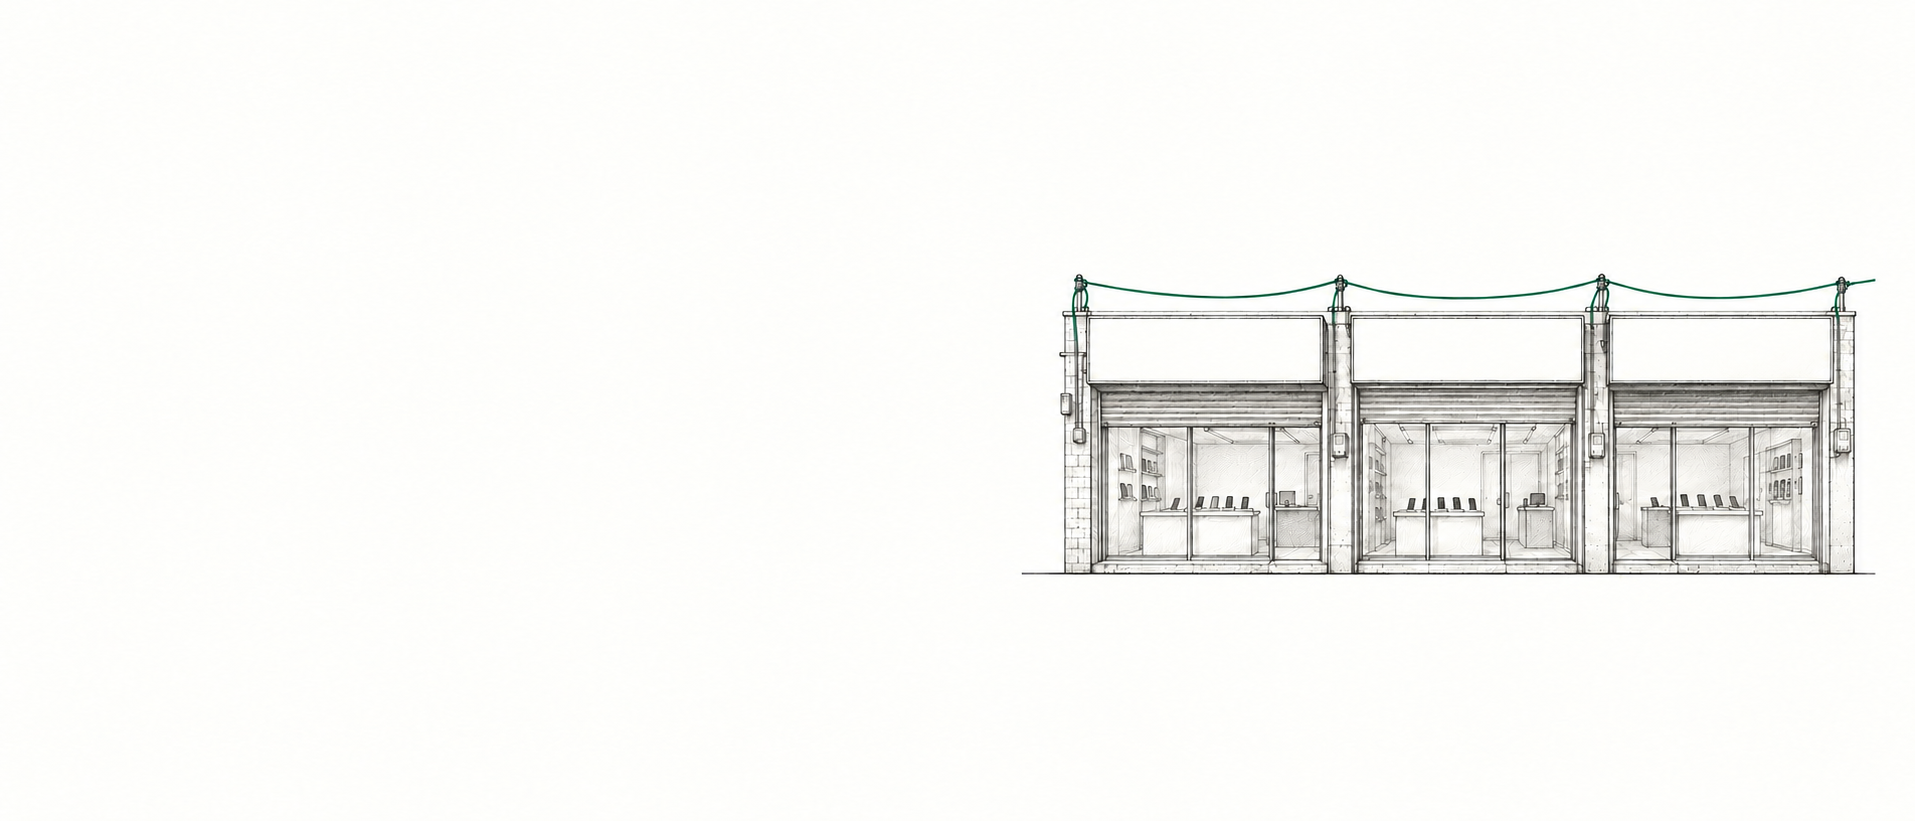
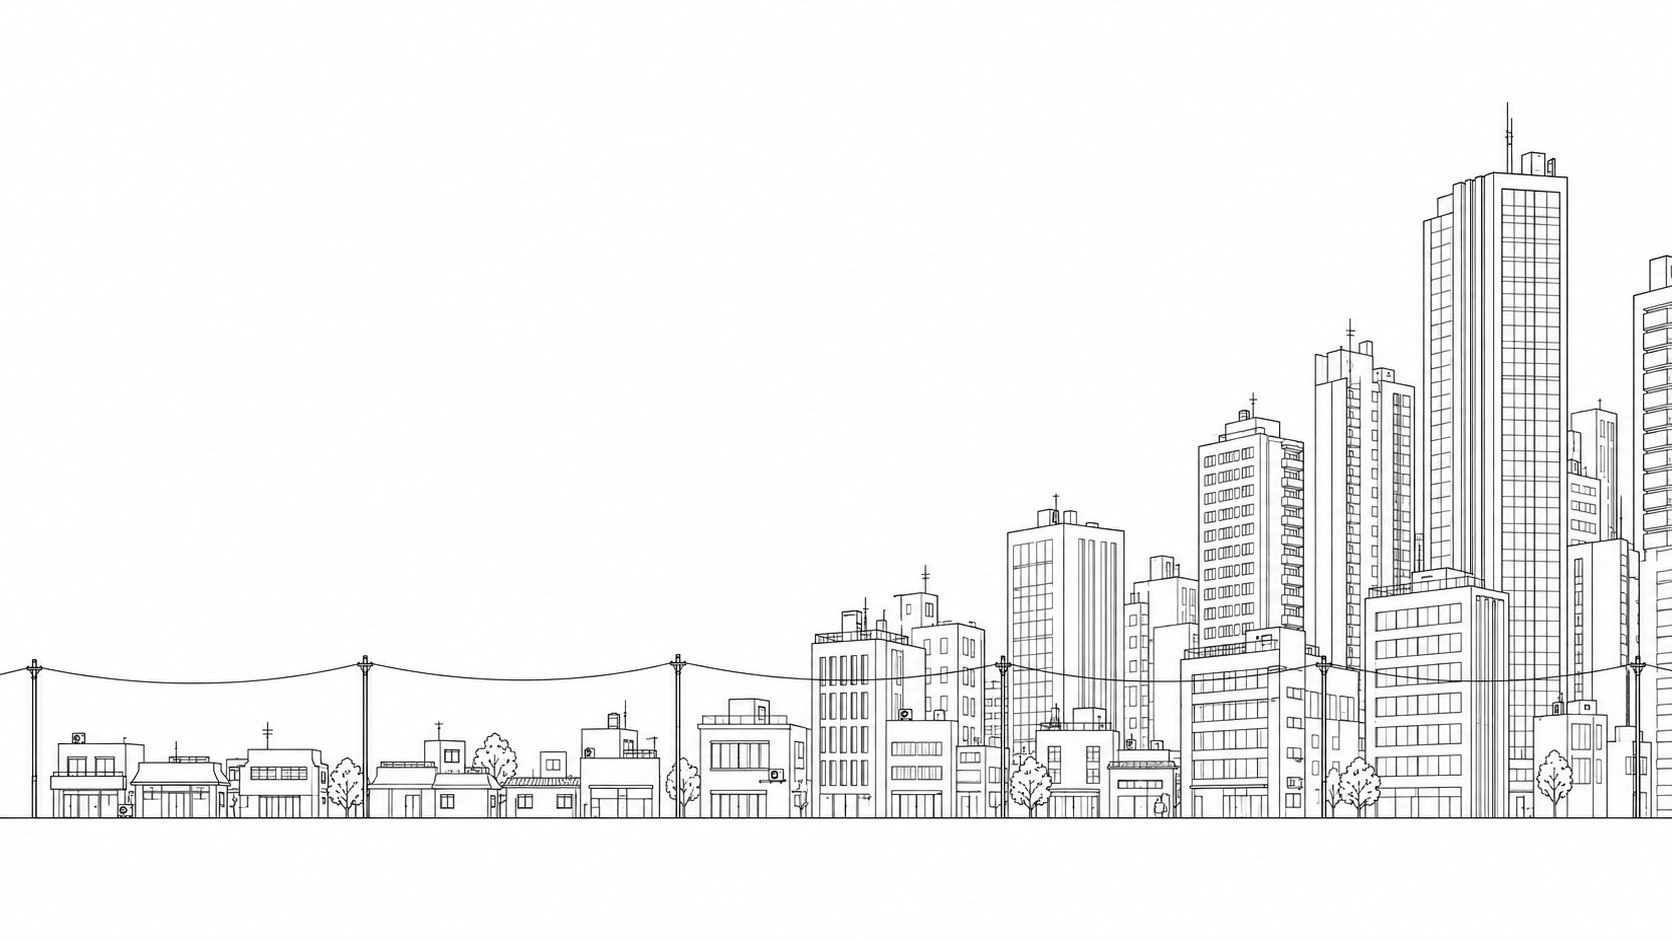
회사소개 히어로: 선 스케치 빌딩숲으로 교체 (투명 webp, 버튼-숫자 사이 선을 땅으로)
Claude-Session: https://claude.ai/code/session_01Jbk5873xntW4wHu3zmSYpM

Changed region(s): [[0.0, 0.1523, 1.0, 0.8831], [0.0, 0.7004, 0.0933, 0.7308]]

diff --git a/dist/static/sub.css b/dist/static/sub.css
@@ -168,30 +168,31 @@
   .sp-card-big{ font-size:60px; }
 }
 
-/* ---------- 분류별 연필 스케치 히어로 (2026-11-02, 회사 분류부터) ----------
-   밝은 종이 배경 + 왼쪽 잉크 글자 + 오른쪽 스케치. 그림의 왼쪽 절반은 빈 종이라 글자 자리다. */
-.sp-hero--sketch .sp-hero-frame{
-  background-color:#FDFDFB; border:1px solid var(--hp-line);
-  background-size:100% auto; background-position:center bottom; background-repeat:no-repeat;
-}
-.sp-hero--sketch.sp-hero--tall .sp-hero-frame{ height:auto; min-height:560px; padding-bottom:40vw; }
-.sp-hero--sketch .sp-hero-body{ color:var(--hp-ink); height:auto; }
+/* ---------- 분류별 선 스케치 히어로 (2026-11-02, 회사 분류부터) ----------
+   카드 틀 없이 페이지 바탕 위에 바로 놓인다. 그림(투명 webp)의 맨 아래 선 = '땅'.
+   땅은 버튼과 숫자 사이에 오고, 숫자(2010·4,000건·310억)는 땅 아래에 놓인다. */
+.sp-hero--sketch .sp-hero-frame{ position:relative; height:auto; min-height:0; padding:0;
+  background:none; border:0; border-radius:0; overflow:visible; }
+.sp-hero-sketch{ position:absolute; right:0; bottom:96px; width:100%; height:auto; z-index:0;
+  pointer-events:none; user-select:none; }
+.sp-hero--sketch .sp-hero-body{ position:relative; z-index:1; height:auto; max-width:none;
+  padding:24px 0 0; display:block; color:var(--hp-ink); }
+.sp-hero--sketch .sp-hero-body > div:first-child{ max-width:600px; padding-bottom:60vw; }
 .sp-hero--sketch .sp-hero-label{ color:var(--hp-green); }
 .sp-hero--sketch .sp-hero-sub{ color:var(--hp-grey); }
-.sp-hero--sketch .sp-hero-fact{ border-left-color:var(--hp-line); }
+.sp-hero--sketch .sp-hero-facts{ margin-top:0; padding-top:20px; height:96px; box-sizing:border-box;
+  max-width:none; grid-auto-columns:max-content; gap:28px; }
+.sp-hero--sketch .sp-hero-fact{ border-left:0; padding-left:0; }
 .sp-hero--sketch .sp-hero-fact-label{ color:var(--hp-grey); }
-.sp-hero--sketch .sp-hero-facts{ margin-top:28px; }
+@media (max-width:1023px){
+  .sp-hero-sketch{ width:180%; max-width:none; }
+}
 @media (min-width:1024px){
-  .sp-hero--sketch.sp-hero--tall .sp-hero-frame{ height:620px; min-height:0; padding-bottom:0;
-    background-size:contain; background-position:right bottom; }
-  .sp-hero--sketch .sp-hero-body{ height:100%; max-width:600px; }
+  .sp-hero--sketch .sp-hero-body{ padding-top:110px; }
+  .sp-hero--sketch .sp-hero-body > div:first-child{ max-width:560px; padding-bottom:64px; }
+  .sp-hero--sketch .sp-hero-facts{ gap:64px; }
   .sp-hero--sketch .sp-hero-headline{ font-size:52px; }
 }
 @media (min-width:1280px){
   .sp-hero--sketch .sp-hero-headline{ font-size:56px; }
-}
-
-/* sketch hero — mobile: crop to the right half (building) */
-@media (max-width:1023px){
-  .sp-hero--sketch.sp-hero--tall .sp-hero-frame{ background-size:200% auto; background-position:right bottom; padding-bottom:52vw; }
 }

diff --git a/static/sub.css b/static/sub.css
@@ -168,30 +168,31 @@
   .sp-card-big{ font-size:60px; }
 }
 
-/* ---------- 분류별 연필 스케치 히어로 (2026-11-02, 회사 분류부터) ----------
-   밝은 종이 배경 + 왼쪽 잉크 글자 + 오른쪽 스케치. 그림의 왼쪽 절반은 빈 종이라 글자 자리다. */
-.sp-hero--sketch .sp-hero-frame{
-  background-color:#FDFDFB; border:1px solid var(--hp-line);
-  background-size:100% auto; background-position:center bottom; background-repeat:no-repeat;
-}
-.sp-hero--sketch.sp-hero--tall .sp-hero-frame{ height:auto; min-height:560px; padding-bottom:40vw; }
-.sp-hero--sketch .sp-hero-body{ color:var(--hp-ink); height:auto; }
+/* ---------- 분류별 선 스케치 히어로 (2026-11-02, 회사 분류부터) ----------
+   카드 틀 없이 페이지 바탕 위에 바로 놓인다. 그림(투명 webp)의 맨 아래 선 = '땅'.
+   땅은 버튼과 숫자 사이에 오고, 숫자(2010·4,000건·310억)는 땅 아래에 놓인다. */
+.sp-hero--sketch .sp-hero-frame{ position:relative; height:auto; min-height:0; padding:0;
+  background:none; border:0; border-radius:0; overflow:visible; }
+.sp-hero-sketch{ position:absolute; right:0; bottom:96px; width:100%; height:auto; z-index:0;
+  pointer-events:none; user-select:none; }
+.sp-hero--sketch .sp-hero-body{ position:relative; z-index:1; height:auto; max-width:none;
+  padding:24px 0 0; display:block; color:var(--hp-ink); }
+.sp-hero--sketch .sp-hero-body > div:first-child{ max-width:600px; padding-bottom:60vw; }
 .sp-hero--sketch .sp-hero-label{ color:var(--hp-green); }
 .sp-hero--sketch .sp-hero-sub{ color:var(--hp-grey); }
-.sp-hero--sketch .sp-hero-fact{ border-left-color:var(--hp-line); }
+.sp-hero--sketch .sp-hero-facts{ margin-top:0; padding-top:20px; height:96px; box-sizing:border-box;
+  max-width:none; grid-auto-columns:max-content; gap:28px; }
+.sp-hero--sketch .sp-hero-fact{ border-left:0; padding-left:0; }
 .sp-hero--sketch .sp-hero-fact-label{ color:var(--hp-grey); }
-.sp-hero--sketch .sp-hero-facts{ margin-top:28px; }
+@media (max-width:1023px){
+  .sp-hero-sketch{ width:180%; max-width:none; }
+}
 @media (min-width:1024px){
-  .sp-hero--sketch.sp-hero--tall .sp-hero-frame{ height:620px; min-height:0; padding-bottom:0;
-    background-size:contain; background-position:right bottom; }
-  .sp-hero--sketch .sp-hero-body{ height:100%; max-width:600px; }
+  .sp-hero--sketch .sp-hero-body{ padding-top:110px; }
+  .sp-hero--sketch .sp-hero-body > div:first-child{ max-width:560px; padding-bottom:64px; }
+  .sp-hero--sketch .sp-hero-facts{ gap:64px; }
   .sp-hero--sketch .sp-hero-headline{ font-size:52px; }
 }
 @media (min-width:1280px){
   .sp-hero--sketch .sp-hero-headline{ font-size:56px; }
-}
-
-/* sketch hero — mobile: crop to the right half (building) */
-@media (max-width:1023px){
-  .sp-hero--sketch.sp-hero--tall .sp-hero-frame{ background-size:200% auto; background-position:right bottom; padding-bottom:52vw; }
 }

diff --git a/templates/partials/hero.html b/templates/partials/hero.html
@@ -6,8 +6,9 @@
 {% set sk = data.sketch %}
 <div class="sp-hero sp-hero--{{ variant }}{% if sk %} sp-hero--sketch{% endif %}">
   {% if sk %}
-  {# 분류별 공통 연필 스케치 히어로(회사/거래/정보) — static/photos/hero/hero-<분류>.webp, 밝은 종이 배경 + 잉크 글자 #}
-  <div class="sp-hero-frame" style="background-image:url('static/photos/hero/hero-{{ sk }}.webp')">
+  {# 분류별 공통 선 스케치 히어로(회사/거래/정보) — static/photos/hero/hero-<분류>.webp (투명 배경, 맨 아래 선이 땅) #}
+  <div class="sp-hero-frame">
+    <img class="sp-hero-sketch" src="static/photos/hero/hero-{{ sk }}.webp" alt="" aria-hidden="true">
   {% else %}
   <div class="sp-hero-frame" style="background-image:url('static/photos/hero-{{ data.photo }}.jpg')">
     {# 사진 분위기(교체용 참고): {{ data.photo_mood }} #}

diff --git a/dist/about.html b/dist/about.html
@@ -126,7 +126,8 @@ FINISH: unreviewed and undocumented is unfinished; this build ends with the fini
 <div class="sp-hero sp-hero--tall sp-hero--sketch">
   
   
-  <div class="sp-hero-frame" style="background-image:url('static/photos/hero/hero-company.webp')">
+  <div class="sp-hero-frame">
+    <img class="sp-hero-sketch" src="static/photos/hero/hero-company.webp" alt="" aria-hidden="true">
   
     <div class="sp-hero-body">
       <div>
